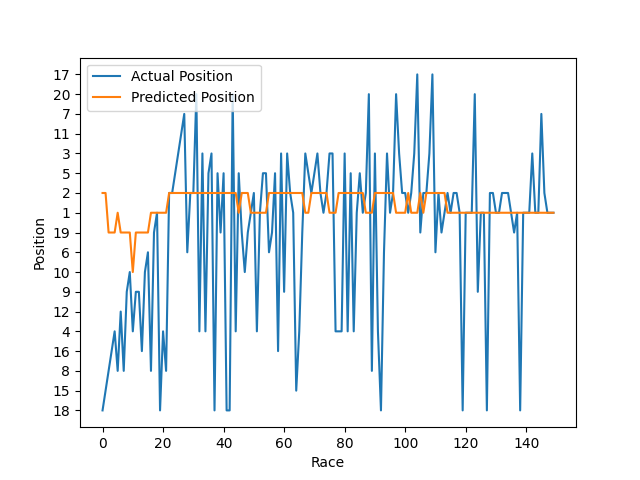
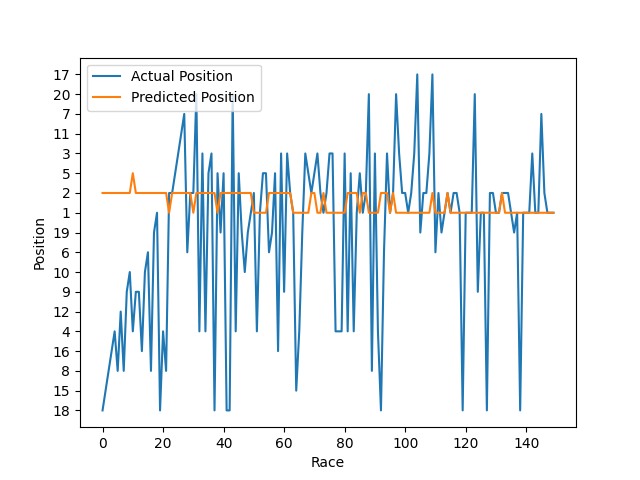
Fixed the model

Changed region(s): [[0.4375, 0.375, 0.7188, 0.4688], [0.1562, 0.375, 0.4062, 0.5625], [0.7812, 0.4062, 0.8125, 0.4375]]

diff --git a/timeSeries.py b/timeSeries.py
@@ -2,27 +2,111 @@ import pandas as pd
 import numpy as np
 import matplotlib.pyplot as plt
 from copy import deepcopy as dc
-from sklearn.preprocessing import MinMaxScaler
-from torch.utils.data import DataLoader
 from sklearn.preprocessing import LabelEncoder
-
-from TSDS import *
-
+from torch.utils.data import DataLoader, Dataset
 import torch
 import torch.nn as nn
+import torch.optim as optim
+import createData
 
 device = 'cuda:0' if torch.cuda.is_available() else 'cpu'
+
+
+##Effects: Feteches the data and takes only the date and position columns. 
+##         If the data does not exist, makes the data and places it in the data folder.
+##         When Creating the data, the program will default to the past 30 years.
+def fetchData(number):
+    try:
+        RAWData = pd.read_pickle('Data/' + str(number) + '.pkl')
+    except FileNotFoundError as e:
+        createData.getDriverData(number,30)
+        RAWData = pd.read_pickle('Data/' + str(number) + '.pkl')
+
+    RAWData['date'] = pd.to_datetime(RAWData['date'])
+    RAWData = RAWData[['date', 'position']]
+
+    return RAWData
+
+
+##Effects: Creates the LSTM NN model to predict drive race positons based off of their previous races
+def createModel(number):
+    RAWData = fetchData(number)
+
+
+    print("stub")
+
+
+# Load and preprocess data
 VERData = pd.read_pickle('Data/33.pkl')
 VERData['date'] = pd.to_datetime(VERData['date'])
-VERData = VERData[['date','position']]
-plt.scatter(VERData['date'],VERData['position'])
+VERData = VERData[['date', 'position']]
+
+plt.scatter(VERData['date'], VERData['position'])
 plt.savefig('Plots/MaxWinPlot.png')
 plt.close()
 
-##Make the position categorical
+# Encode positions
 label_encoder = LabelEncoder()
 VERData['position'] = label_encoder.fit_transform(VERData['position'])
 
+# Verify the range of encoded labels
+print(f"Encoded position labels range from {VERData['position'].min()} to {VERData['position'].max()}")
+
+# Prepare the data with shifted positions
+def prepData(data, steps):
+    df = dc(data)
+    df['date'] = pd.to_datetime(df['date'])
+    df.set_index('date', inplace=True)
+
+    for i in range(1, steps):
+        df[f'position(t-{i})'] = df['position'].shift(i)
+
+    df.dropna(inplace=True)
+    return df
+
+shiftData = prepData(VERData, 6)
+npShiftData = shiftData.to_numpy()
+
+# Split data into features and labels
+X = npShiftData[:, 1:]
+y = npShiftData[:, 0]
+X = dc(np.flip(X, axis=1))
+split_index = int(len(X) * 0.80)
+
+X_train = X[:split_index]
+X_test = X[split_index:]
+y_train = y[:split_index]
+y_test = y[split_index:]
+
+# Ensure all values are within the range
+num_classes = len(label_encoder.classes_)
+print(f"Number of classes: {num_classes}")
+
+# Convert data to PyTorch tensors and ensure within range
+X_train = torch.tensor(X_train, dtype=torch.long).clamp(0, num_classes - 1)
+X_test = torch.tensor(X_test, dtype=torch.long).clamp(0, num_classes - 1)
+y_train = torch.tensor(y_train, dtype=torch.long).clamp(0, num_classes - 1)
+y_test = torch.tensor(y_test, dtype=torch.long).clamp(0, num_classes - 1)
+
+# Custom dataset class
+class TimeSeriesDataset(Dataset):
+    def __init__(self, X, y):
+        self.X = X
+        self.y = y
+
+    def __len__(self):
+        return len(self.X)
+
+    def __getitem__(self, idx):
+        return self.X[idx], self.y[idx]
+
+train_data = TimeSeriesDataset(X_train, y_train)
+test_data = TimeSeriesDataset(X_test, y_test)
+
+train_loader = DataLoader(train_data, batch_size=3, shuffle=True)
+test_loader = DataLoader(test_data, batch_size=3, shuffle=False)
+
+# Define the LSTM model with an embedding layer
 class LSTM(nn.Module):
     def __init__(self, num_classes, hidden_size, num_stacked_layers):
         super().__init__()
@@ -38,125 +122,65 @@ class LSTM(nn.Module):
         out = self.fc(out[:, -1, :])
         return out
 
-def prepData(data,steps):
-    df = dc(data)
-    df['date'] = pd.to_datetime(df['date'])
-
-    df.set_index('date', inplace=True)
-
-    for i in range(1,steps):
-        df[f'position(t-{i})'] = df['position'].shift(i)
-
-    df.dropna(inplace = True)
-
-    return df
-
-shiftData = prepData(VERData,6)
-npShiftData = shiftData.to_numpy()
-
-##Now I need to transfor the data so values are between -1,1
-
-scaler = MinMaxScaler(feature_range=(-1,1))
-npShiftData = scaler.fit_transform(npShiftData)
-
-
-X = npShiftData[:, 1:]
-y = npShiftData[:, 0]
-X = dc(np.flip(X, axis=1))
-split_index = int(len(X) * 0.80)
-
-X_train = X[:split_index]
-X_test = X[split_index:]
-
-y_train = y[:split_index]
-y_test = y[split_index:]
-
-
-# X_train, X_test, y_train, y_test = train_test_split(X, y, test_size=0.2, random_state=42)
-
-##Reshape the data for pytorch
-X_test = X_test.reshape((-1,5,1))
-X_train = X_train.reshape((-1,5,1))
-y_train = y_train.reshape((-1,1))
-y_test = y_test.reshape((-1,1))
-
-X_train = torch.tensor(X_train, dtype=torch.long)
-X_test = torch.tensor(X_test, dtype=torch.long)
-y_train = torch.tensor(y_train, dtype=torch.long)
-y_test = torch.tensor(y_test, dtype=torch.long)
-
-train_data = TimeSeriesDataset(X_train,y_train)
-test_data = TimeSeriesDataset(X_test,y_test)
-
-train_loader = DataLoader(train_data,batch_size=3,shuffle=True)
-test_loader = DataLoader(test_data,batch_size=3,shuffle=False)
-
-num_classes = len(label_encoder.classes_)
-model = LSTM(num_classes, hidden_size=16, num_stacked_layers=2)
+model = LSTM(num_classes, hidden_size=16, num_stacked_layers=3)
 model.to(device)
 
+# Training and validation functions
 def train_one_epoch(epoch):
     learning_rate = 0.001
     loss_function = nn.CrossEntropyLoss()
-    optimizer = torch.optim.Adam(model.parameters(), lr=learning_rate)
-    model.train(True)
-    print(f'Epoch:{epoch+1}')
+    optimizer = optim.Adam(model.parameters(), lr=learning_rate)
+    model.train()
     running_loss = 0.0
 
-    for batch_index, batch in enumerate(train_loader):
-        x_batch, y_batch = batch[0].to(device), batch[1].to(device)
+    for batch_index, (x_batch, y_batch) in enumerate(train_loader):
+        x_batch, y_batch = x_batch.to(device), y_batch.to(device)
         output = model(x_batch)
-        loss = loss_function(output,y_batch)
-        running_loss += loss
+        loss = loss_function(output, y_batch)
+        running_loss += loss.item()
         optimizer.zero_grad()
         loss.backward()
         optimizer.step()
 
         if batch_index % 5 == 4:
-            avg_loss_across_batches = running_loss / 100
-            print('Batch {0}, Loss: {1:.3f}'.format(batch_index+1,avg_loss_across_batches))
+            avg_loss_across_batches = running_loss / 5
+            print(f'Epoch {epoch + 1}, Batch {batch_index + 1}, Loss: {avg_loss_across_batches:.3f}')
             running_loss = 0.0
-    print()
-
 
 def validate_one_epoch():
     loss_function = nn.CrossEntropyLoss()
-    model.train(False)
+    model.eval()
     running_loss = 0.0
-    
-    for batch_index, batch in enumerate(test_loader):
-        x_batch, y_batch = batch[0].to(device), batch[1].to(device)
-        
-        with torch.no_grad():
+
+    with torch.no_grad():
+        for x_batch, y_batch in test_loader:
+            x_batch, y_batch = x_batch.to(device), y_batch.to(device)
             output = model(x_batch)
             loss = loss_function(output, y_batch)
             running_loss += loss.item()
 
     avg_loss_across_batches = running_loss / len(test_loader)
-    
-    print('Val Loss: {0:.3f}'.format(avg_loss_across_batches))
+    print(f'Validation Loss: {avg_loss_across_batches:.3f}')
     print('***************************************************')
-    print()
 
+# Training loop
 num_epochs = 10
-
 for epoch in range(num_epochs):
     train_one_epoch(epoch)
     validate_one_epoch()
 
-print(shiftData)
-
+# Predictions
 with torch.no_grad():
     train_predictions = model(X_train.to(device)).argmax(dim=1).cpu().numpy()
     test_predictions = model(X_test.to(device)).argmax(dim=1).cpu().numpy()
 
-# Inverse transform the predictions and actual values - CHANGED
+# Inverse transform the predictions and actual values
 train_predictions = label_encoder.inverse_transform(train_predictions)
 test_predictions = label_encoder.inverse_transform(test_predictions)
 y_train = label_encoder.inverse_transform(y_train)
 y_test = label_encoder.inverse_transform(y_test)
 
-# Plotting - UNCHANGED
+# Plotting
 plt.plot(y_train, label='Actual Position')
 plt.plot(train_predictions, label='Predicted Position')
 plt.xlabel('Race')
